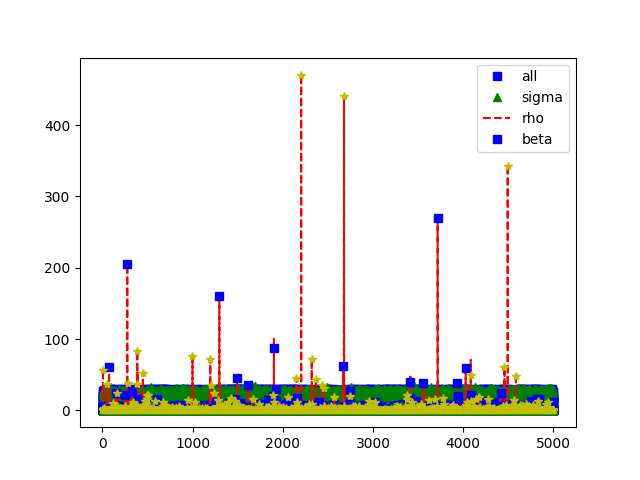
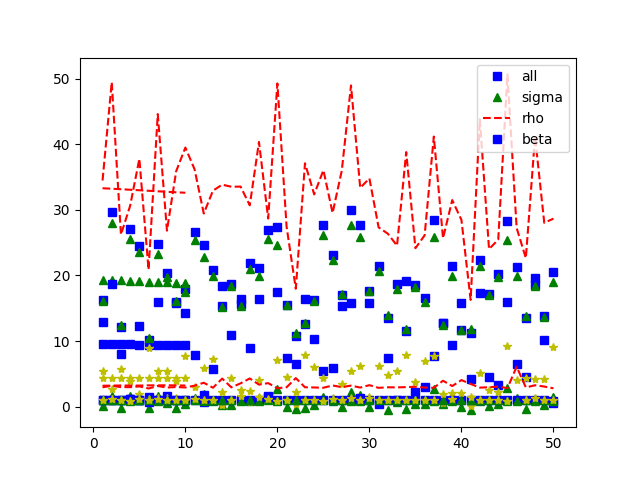
test

diff --git a/lorenz_nn.py b/lorenz_nn.py
@@ -10,7 +10,7 @@ from torch.autograd import Variable
 my_path = '/home/peiguo/Lorenz_MLP/training_fig'
 my_results_path_rela = '/home/peiguo/Lorenz_MLP/results/rela_error' 
 my_results_path_abso = '/home/peiguo/Lorenz_MLP/results/abso_error' 
-total_samples = 5000
+total_samples = 50
 
 def dataset(total_samples):
     def f(state,t):
@@ -109,7 +109,7 @@ loss_fn = MSRELoss().cuda()
 learning_rate = 1e-5
 #learning_rate = 1e-3
 
-EPOCH = 100
+EPOCH = 10
 
 # define the optimizer
 optimizer = torch.optim.SGD(model.parameters(), lr=learning_rate)
@@ -191,12 +191,8 @@ for t in range(EPOCH):
             targets[0,0], targets[0,1], targets[0,2], 
             preds[0,0], preds[0,1], preds[0,2]))
         a = targets - preds
-        print(a)
         error = torch.abs(a)
-        print(error)
         rela_error = torch.abs(a/targets)
-        print(rela_error)
-
 
         if t == EPOCH - 1:
             target_rho.extend(targets[:,1])
@@ -230,7 +226,7 @@ for t in range(EPOCH):
     error_sigma.append(mean_error_sigma)
     error_rho.append(mean_error_rho)
     error_beta.append(mean_error_beta)
-    
+    print(mean_error_sigma)
     #visualize the result relative error:
     mean_rela_error_sigma = total_rela_error_sigma / total_samples
     mean_rela_error_rho = total_rela_error_rho / total_samples
@@ -242,7 +238,10 @@ for t in range(EPOCH):
     rela_error_beta.append(mean_rela_error_beta)
 
 
-
+print(rela_error_all)
+print(rela_error_sigma)
+print(rela_error_rho)
+print(rela_error_beta)
 x_axis0 = np.arange(1,total_samples + 1)
 plt.plot(x_axis0, target_rho, 'bs', x_axis0, pred_rho, 'g^')
 label = [ 'target', 'predict']
